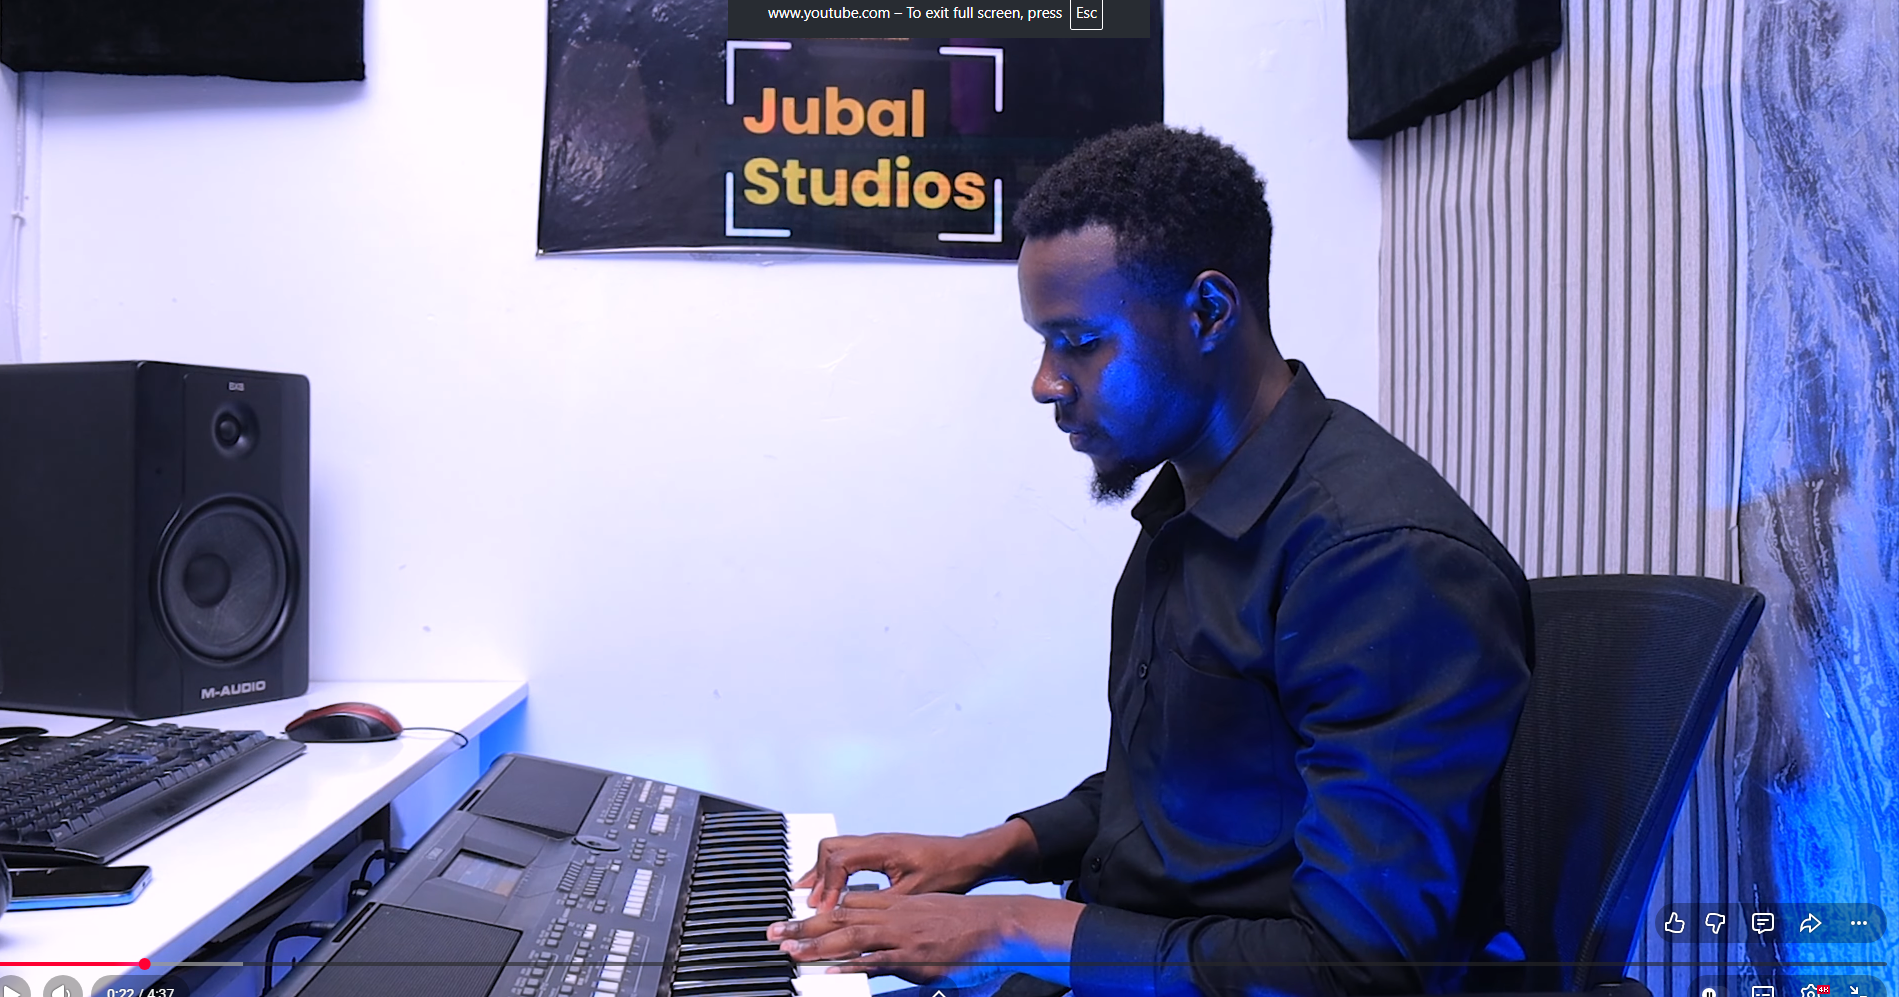
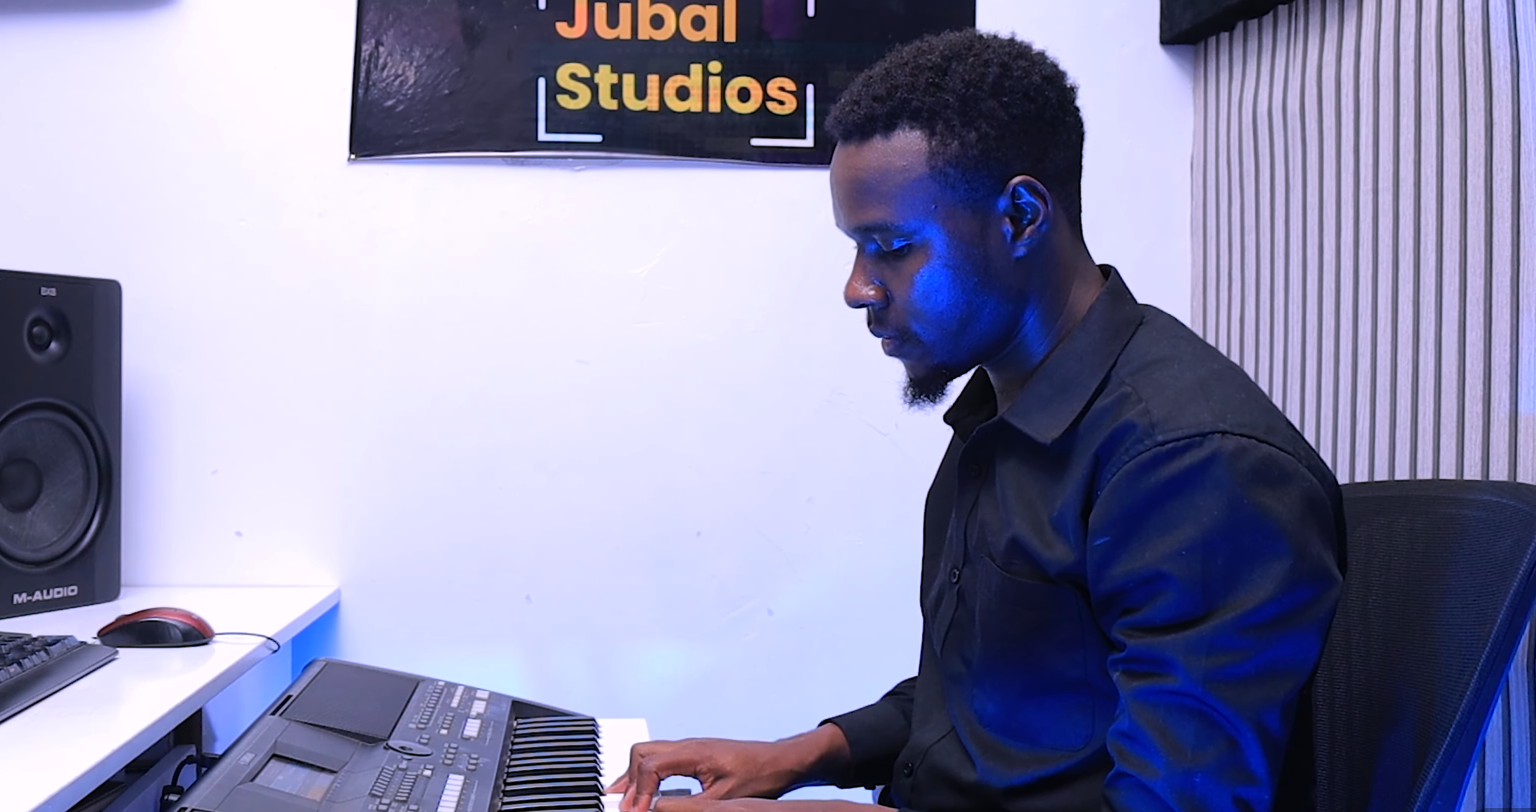
Fix home about strip on mobile and add back-to-top control.
Clip overflow and tighten the about photo grid on small screens, gate wire-tile zoom to fine pointers, add a fixed scroll-top button via main.js, and update the about screenshot asset.

diff --git a/css/styles.css b/css/styles.css
@@ -65,6 +65,7 @@ html {
 
 body {
   margin: 0;
+  overflow-x: clip;
   font-family: var(--font-sans);
   font-weight: var(--font-weight-normal);
   font-size: 1rem;
@@ -979,9 +980,11 @@ body[data-page="home"] .quick-actions--wire .quick-actions__wire {
   padding-block: 0 clamp(2.25rem, 5vw, 3.75rem);
   padding-inline: env(safe-area-inset-left, 0px) env(safe-area-inset-right, 0px);
   width: 100%;
+  max-width: 100%;
   box-sizing: border-box;
   background: #000;
   color: #fff;
+  overflow-x: clip;
 }
 
 body[data-page="home"] .quick-actions--wire .quick-actions__wire-grid {
@@ -989,6 +992,8 @@ body[data-page="home"] .quick-actions--wire .quick-actions__wire-grid {
   grid-template-columns: minmax(0, 1fr) minmax(0, 1fr);
   align-items: stretch;
   width: 100%;
+  max-width: 100%;
+  min-width: 0;
   box-sizing: border-box;
   background: #000;
   min-height: clamp(300px, 48vh, 580px);
@@ -1032,10 +1037,12 @@ body[data-page="home"] .quick-actions__wire-image-well img {
   transition: transform 0.55s var(--ease-out), filter 0.45s var(--ease-soft);
 }
 
-body[data-page="home"] .quick-actions__wire-cell:hover .quick-actions__wire-image-well img,
-body[data-page="home"] .quick-actions__wire-cell:focus-visible .quick-actions__wire-image-well img {
-  transform: scale(1.06);
-  filter: brightness(1.04) saturate(1.04);
+@media (hover: hover) and (pointer: fine) {
+  body[data-page="home"] .quick-actions__wire-cell:hover .quick-actions__wire-image-well img,
+  body[data-page="home"] .quick-actions__wire-cell:focus-visible .quick-actions__wire-image-well img {
+    transform: scale(1.06);
+    filter: brightness(1.04) saturate(1.04);
+  }
 }
 
 body[data-page="home"] .quick-actions__wire-text {
@@ -1107,13 +1114,19 @@ body[data-page="home"] .quick-actions__wire-cell:focus-visible .quick-actions__w
 }
 
 /* Home — about: lessons-style wire grid, two cells only (photo | copy) */
+body[data-page="home"] .about-story {
+  overflow-x: clip;
+}
+
 body[data-page="home"] .about-story__wire {
   padding-block: clamp(2.25rem, 5vw, 3.75rem);
   padding-inline: env(safe-area-inset-left, 0px) env(safe-area-inset-right, 0px);
   width: 100%;
+  max-width: 100%;
   box-sizing: border-box;
   background: #000;
   color: #fff;
+  overflow-x: clip;
 }
 
 body[data-page="home"] .about-story__wire-grid {
@@ -1121,7 +1134,8 @@ body[data-page="home"] .about-story__wire-grid {
   grid-template-columns: minmax(0, 1fr) minmax(0, 1fr);
   align-items: stretch;
   width: 100%;
-  max-width: none;
+  max-width: 100%;
+  min-width: 0;
   margin-inline: 0;
   box-sizing: border-box;
   background: #000;
@@ -1132,6 +1146,8 @@ body[data-page="home"] .about-story__wire-cell {
   display: flex;
   flex-direction: column;
   min-height: 0;
+  min-width: 0;
+  max-width: 100%;
 }
 
 /* Photo tile: image covers the entire cell (person fills the grid) */
@@ -1155,12 +1171,15 @@ body[data-page="home"] .about-story__wire-cell--media .about-story__wire-figure 
   width: 100%;
   height: 100%;
   min-height: 100%;
+  max-width: 100%;
+  overflow: hidden;
 }
 
 body[data-page="home"] .about-story__wire-cell--media .about-story__wire-img {
   width: 100%;
   height: 100%;
   min-height: 100%;
+  max-width: 100%;
   object-fit: cover;
   object-position: 28% center;
   border-radius: 0;
@@ -1170,9 +1189,11 @@ body[data-page="home"] .about-story__wire-cell--media .about-story__wire-img {
   transition: transform 0.55s var(--ease-out), filter 0.45s var(--ease-soft);
 }
 
-body[data-page="home"] .about-story__wire-cell--media:hover .about-story__wire-img {
-  transform: scale(1.05);
-  filter: brightness(1.05) saturate(1.05);
+@media (hover: hover) and (pointer: fine) {
+  body[data-page="home"] .about-story__wire-cell--media:hover .about-story__wire-img {
+    transform: scale(1.05);
+    filter: brightness(1.05) saturate(1.05);
+  }
 }
 
 @media (prefers-reduced-motion: no-preference) {
@@ -1234,8 +1255,11 @@ body[data-page="home"] .about-story .about-story__body {
   }
 
   body[data-page="home"] .about-story__wire-cell--media {
-    min-height: clamp(260px, 52vw, 420px);
-    aspect-ratio: 16 / 10;
+    width: 100%;
+    max-width: 100%;
+    min-height: clamp(220px, 48vw, 360px);
+    aspect-ratio: 4 / 3;
+    max-height: min(52vh, 380px);
   }
 
   body[data-page="home"] .about-story__wire-copy {
@@ -1246,6 +1270,12 @@ body[data-page="home"] .about-story .about-story__body {
 @media (max-width: 520px) {
   body[data-page="home"] .about-story__wire-cell--media .about-story__wire-img {
     object-position: 22% center;
+  }
+
+  body[data-page="home"] .about-story__wire-cell--media {
+    aspect-ratio: 1 / 1;
+    min-height: 0;
+    max-height: min(68vw, 320px);
   }
 }
 
@@ -1657,6 +1687,63 @@ textarea {
 .toast strong {
   display: block;
   margin-bottom: 0.25rem;
+}
+
+/* Back to top — injected by js/main.js on all pages that load it */
+.scroll-top {
+  position: fixed;
+  z-index: 210;
+  right: max(1rem, env(safe-area-inset-right, 0px) + 0.5rem);
+  bottom: max(1.15rem, env(safe-area-inset-bottom, 0px) + 0.75rem);
+  width: 2.75rem;
+  height: 2.75rem;
+  display: inline-flex;
+  align-items: center;
+  justify-content: center;
+  padding: 0;
+  border: 1px solid rgba(255, 255, 255, 0.14);
+  border-radius: 999px;
+  background: rgba(12, 20, 28, 0.88);
+  color: var(--text);
+  box-shadow: 0 10px 32px rgba(0, 0, 0, 0.45);
+  cursor: pointer;
+  opacity: 0;
+  visibility: hidden;
+  transform: translateY(0.5rem) scale(0.96);
+  pointer-events: none;
+  transition: opacity 0.28s var(--ease-soft), transform 0.32s var(--ease-out), visibility 0.28s,
+    border-color 0.2s var(--ease-soft), background 0.2s var(--ease-soft);
+}
+
+.scroll-top.is-visible {
+  opacity: 1;
+  visibility: visible;
+  transform: translateY(0) scale(1);
+  pointer-events: auto;
+}
+
+.scroll-top:hover {
+  border-color: rgba(240, 180, 41, 0.35);
+  background: rgba(18, 28, 40, 0.95);
+}
+
+.scroll-top:focus-visible {
+  outline: 2px solid var(--accent);
+  outline-offset: 3px;
+}
+
+.scroll-top svg {
+  display: block;
+}
+
+@media (prefers-reduced-motion: reduce) {
+  .scroll-top {
+    transition-duration: 0.01ms;
+  }
+
+  .scroll-top.is-visible {
+    transform: none;
+  }
 }
 
 /* Contact strip */

diff --git a/js/main.js b/js/main.js
@@ -388,10 +388,58 @@
     io.observe(hero || img);
   }
 
+  function initScrollTop() {
+    if (qs("[data-scroll-top]")) return;
+
+    var btn = document.createElement("button");
+    btn.type = "button";
+    btn.setAttribute("data-scroll-top", "");
+    btn.className = "scroll-top";
+    btn.setAttribute("aria-label", "Back to top");
+    btn.innerHTML =
+      '<svg xmlns="http://www.w3.org/2000/svg" width="22" height="22" viewBox="0 0 24 24" fill="none" stroke="currentColor" stroke-width="2.25" stroke-linecap="round" stroke-linejoin="round" aria-hidden="true"><path d="M18 15l-6-6-6 6"/></svg>';
+    document.body.appendChild(btn);
+
+    var visible = false;
+
+    function setVisible(show) {
+      if (show === visible) return;
+      visible = show;
+      btn.classList.toggle("is-visible", show);
+    }
+
+    function update() {
+      var y = window.pageYOffset || document.documentElement.scrollTop || 0;
+      setVisible(y > 320);
+    }
+
+    var ticking = false;
+    window.addEventListener(
+      "scroll",
+      function () {
+        if (ticking) return;
+        ticking = true;
+        requestAnimationFrame(function () {
+          ticking = false;
+          update();
+        });
+      },
+      { passive: true }
+    );
+
+    btn.addEventListener("click", function () {
+      window.scrollTo({ top: 0, behavior: "smooth" });
+      btn.blur();
+    });
+
+    update();
+  }
+
   initNav();
   initFooterYear();
   initContactWhatsApp();
   initForms();
   initWaPrefill();
   initHeroMotionPause();
+  initScrollTop();
 })();